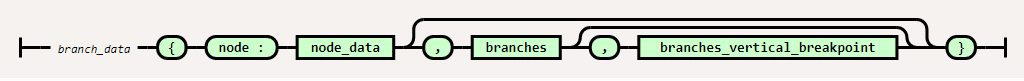
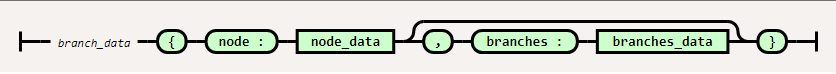
revise the data structure..in progress....

Changed region(s): [[0.0, 0.2162, 0.9952, 0.7568], [0.0, 0.0, 1.0, 0.027]]

diff --git a/examples/example_1/OrgChart.js b/examples/example_1/OrgChart.js
@@ -1,6 +1,6 @@
 Vue.component("org-chart", {
   template: `
-        <div>
+      <div>
         <org-chart-desktop class="d-none" :class="desktop_display_class" :orgChart_data="orgChart_data"></org-chart-desktop>
         <org-chart-mobile class="d-flex" :class="mobile_hidden_class" :orgChart_data="orgChart_data"></org-chart-mobile>
       </div>
@@ -27,22 +27,20 @@ Vue.component("org-chart-desktop", {
   template: `
 <div class="orgChartDesktopWrapper" ref="orgChartDesktopWrapper">
 <ul class="orgChartDesktop" ref="orgChartDesktop">
-    <li class="orgChartDesktopRoot orgChartDesktopBranch">
-        <org-chart-desktop-node :node_data="orgChart_data.root.node"></org-chart-desktop-node>
-        <org-chart-desktop-branches :branches="orgChart_data.root.branches"></org-chart-desktop-branches>
-    </li>
+  <org-chart-desktop-branch class="orgChartDesktopRoot" :branch_data="branch_data"></org-chart-desktop-branch>        
 </ul>
 </div>
 `,
   props: {
     orgChart_data: Object
   },
-  computed:{
-    isIOS:function(){
-      return /iPhone|iPad|iPod/i.test(navigator.userAgent);
-    },
-    isIE:function(){
-      return (window.document.documentMode) ? true : false;
+  computed: {
+    branch_data: function() {
+      const foo = { node: this.orgChart_data.root.node };
+      if (this.orgChart_data.root.hasOwnProperty("branches")) {
+        foo.branches = this.orgChart_data.root.branches;
+      }
+      return foo;
     }
   },
   methods: {
@@ -91,38 +89,43 @@ Vue.component("org-chart-desktop", {
   }
 });
 
+Vue.component("org-chart-desktop-branch", {
+  template: `
+  <li class="orgChartDesktopBranch" :class="branch_class">
+    <org-chart-desktop-node :node_data="branch_data.node"></org-chart-desktop-node>
+    <org-chart-desktop-branches v-if="branch_data.hasOwnProperty('branches')" :branches_data="branch_data.branches"></org-chart-desktop-branches>  
+  </li>
+  `,
+  props: {
+    branch_data: Object
+  },
+  computed: {
+    branch_class: function() {
+      // default assume it is leaf, has no sub branches
+      let foo = "orgChartDesktopLeaf";
+      if (this.branch_data.hasOwnProperty("branches")) {
+        // if it has sub branches, it must not a leaf
+        foo = "";
+        if (this.branch_data.branches.hasOwnProperty("vertical_breakpoint")) {
+          // the sub branches can be in vertical mode at breakpoints :
+          // sm, md, lg, xl
+          // * : force vertical mode
+          foo = `orgChartDesktop-${this.branch_data.branches.vertical_breakpoint}-vBranch`;
+        }
+      }
+      return foo;
+    }
+  }
+});
+
 Vue.component("org-chart-desktop-branches", {
   template: `
 <ul class="orgChartDesktopBranches">
-<li v-for="(branch,index) in branches_parsed" class="orgChartDesktopBranch" :class="branch.branch_class" :key="index">
-    <org-chart-desktop-node :node_data="branch.node"></org-chart-desktop-node>
-    <org-chart-desktop-branches v-if="branch.hasSubBranches" :branches="branch.branches"></org-chart-desktop-branches>
-</li>
+  <org-chart-desktop-branch v-for="(branch,index) in branches_data.items" :branch_data="branch" :key="index"></org-chart-desktop-branch>
 </ul>
 `,
   props: {
-    branches: Array
-  },
-  computed: {
-    branches_parsed: function() {
-      return this.branches.map(function(branch) {
-        // default assume it is leaf, has no sub branches
-        branch.hasSubBranches = false;
-        branch.branch_class = "orgChartDesktopLeaf";
-        if (branch.hasOwnProperty("branches")) {
-          // if it has sub branches, it must not a leaf
-          branch.hasSubBranches = true;
-          branch.branch_class = "";
-          if (branch.hasOwnProperty("branches_vertical_breakpoint")) {
-            // the sub branches can be in vertical mode at breakpoints :
-            // sm, md, lg, xl
-            // all : all breakpoints above
-            branch.branch_class = `orgChartDesktop-${branch.branches_vertical_breakpoint}-vBranch`;
-          }
-        }
-        return branch;
-      });
-    }
+    branches_data: Object
   }
 });
 

diff --git a/src/OrgChart.js b/src/OrgChart.js
@@ -1,6 +1,6 @@
 Vue.component("org-chart", {
   template: `
-        <div>
+      <div>
         <org-chart-desktop class="d-none" :class="desktop_display_class" :orgChart_data="orgChart_data"></org-chart-desktop>
         <org-chart-mobile class="d-flex" :class="mobile_hidden_class" :orgChart_data="orgChart_data"></org-chart-mobile>
       </div>
@@ -27,22 +27,20 @@ Vue.component("org-chart-desktop", {
   template: `
 <div class="orgChartDesktopWrapper" ref="orgChartDesktopWrapper">
 <ul class="orgChartDesktop" ref="orgChartDesktop">
-    <li class="orgChartDesktopRoot orgChartDesktopBranch">
-        <org-chart-desktop-node :node_data="orgChart_data.root.node"></org-chart-desktop-node>
-        <org-chart-desktop-branches :branches="orgChart_data.root.branches"></org-chart-desktop-branches>
-    </li>
+  <org-chart-desktop-branch class="orgChartDesktopRoot" :branch_data="branch_data"></org-chart-desktop-branch>        
 </ul>
 </div>
 `,
   props: {
     orgChart_data: Object
   },
-  computed:{
-    isIOS:function(){
-      return /iPhone|iPad|iPod/i.test(navigator.userAgent);
-    },
-    isIE:function(){
-      return (window.document.documentMode) ? true : false;
+  computed: {
+    branch_data: function() {
+      const foo = { node: this.orgChart_data.root.node };
+      if (this.orgChart_data.root.hasOwnProperty("branches")) {
+        foo.branches = this.orgChart_data.root.branches;
+      }
+      return foo;
     }
   },
   methods: {
@@ -91,38 +89,43 @@ Vue.component("org-chart-desktop", {
   }
 });
 
+Vue.component("org-chart-desktop-branch", {
+  template: `
+  <li class="orgChartDesktopBranch" :class="branch_class">
+    <org-chart-desktop-node :node_data="branch_data.node"></org-chart-desktop-node>
+    <org-chart-desktop-branches v-if="branch_data.hasOwnProperty('branches')" :branches_data="branch_data.branches"></org-chart-desktop-branches>  
+  </li>
+  `,
+  props: {
+    branch_data: Object
+  },
+  computed: {
+    branch_class: function() {
+      // default assume it is leaf, has no sub branches
+      let foo = "orgChartDesktopLeaf";
+      if (this.branch_data.hasOwnProperty("branches")) {
+        // if it has sub branches, it must not a leaf
+        foo = "";
+        if (this.branch_data.branches.hasOwnProperty("vertical_breakpoint")) {
+          // the sub branches can be in vertical mode at breakpoints :
+          // sm, md, lg, xl
+          // * : force vertical mode
+          foo = `orgChartDesktop-${this.branch_data.branches.vertical_breakpoint}-vBranch`;
+        }
+      }
+      return foo;
+    }
+  }
+});
+
 Vue.component("org-chart-desktop-branches", {
   template: `
 <ul class="orgChartDesktopBranches">
-<li v-for="(branch,index) in branches_parsed" class="orgChartDesktopBranch" :class="branch.branch_class" :key="index">
-    <org-chart-desktop-node :node_data="branch.node"></org-chart-desktop-node>
-    <org-chart-desktop-branches v-if="branch.hasSubBranches" :branches="branch.branches"></org-chart-desktop-branches>
-</li>
+  <org-chart-desktop-branch v-for="(branch,index) in branches_data.items" :branch_data="branch" :key="index"></org-chart-desktop-branch>
 </ul>
 `,
   props: {
-    branches: Array
-  },
-  computed: {
-    branches_parsed: function() {
-      return this.branches.map(function(branch) {
-        // default assume it is leaf, has no sub branches
-        branch.hasSubBranches = false;
-        branch.branch_class = "orgChartDesktopLeaf";
-        if (branch.hasOwnProperty("branches")) {
-          // if it has sub branches, it must not a leaf
-          branch.hasSubBranches = true;
-          branch.branch_class = "";
-          if (branch.hasOwnProperty("branches_vertical_breakpoint")) {
-            // the sub branches can be in vertical mode at breakpoints :
-            // sm, md, lg, xl
-            // all : all breakpoints above
-            branch.branch_class = `orgChartDesktop-${branch.branches_vertical_breakpoint}-vBranch`;
-          }
-        }
-        return branch;
-      });
-    }
+    branches_data: Object
   }
 });
 

diff --git a/README.md b/README.md
@@ -82,8 +82,12 @@ value|screen width (px)
 
 ![](doc/railroad_diagram/branch_data.png)
 ![](doc/railroad_diagram/node_data.png)
-![](doc/railroad_diagram/branches.png)
-![](doc/railroad_diagram/branches_vertical_breakpoint.png)
+**node_data**  
+html : content of each node in html   
+classes : assign class, so you can apply css style   
+link : URL value, if it exist, the node will be a link    
+![](doc/railroad_diagram/branches_data.png)
+![](doc/railroad_diagram/vertical_breakpoint.png)
 ### sample code
 Below is the sample code, which will output  
 ![sample output mobile](doc/images/sample_output_mobile.png) ![sample output](doc/images/sample_output.png)
